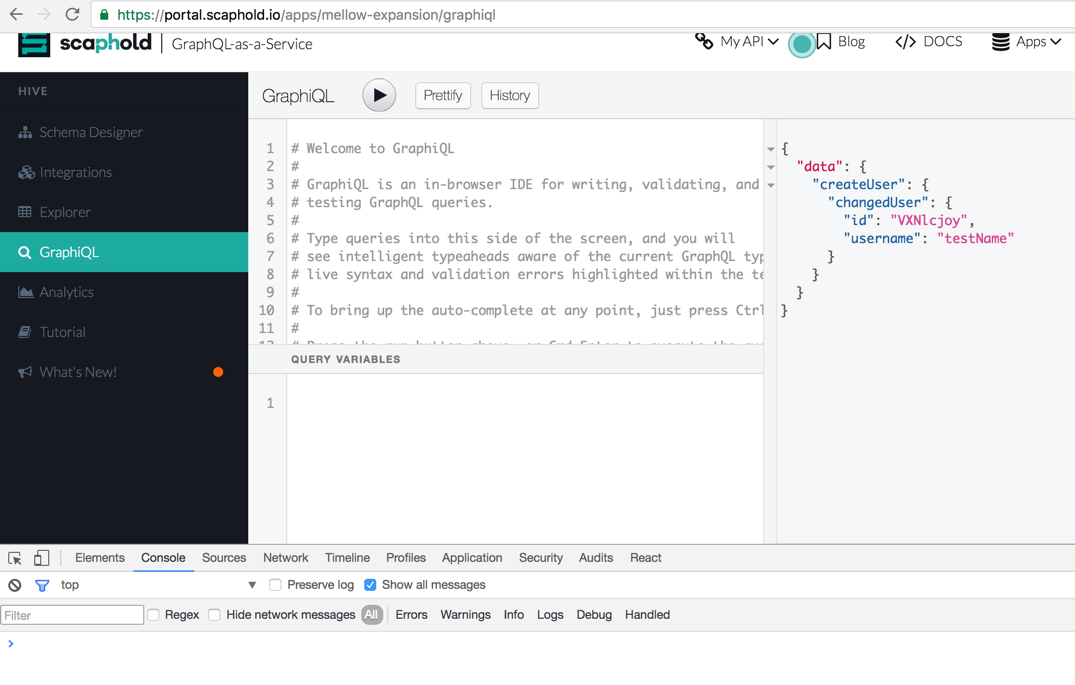
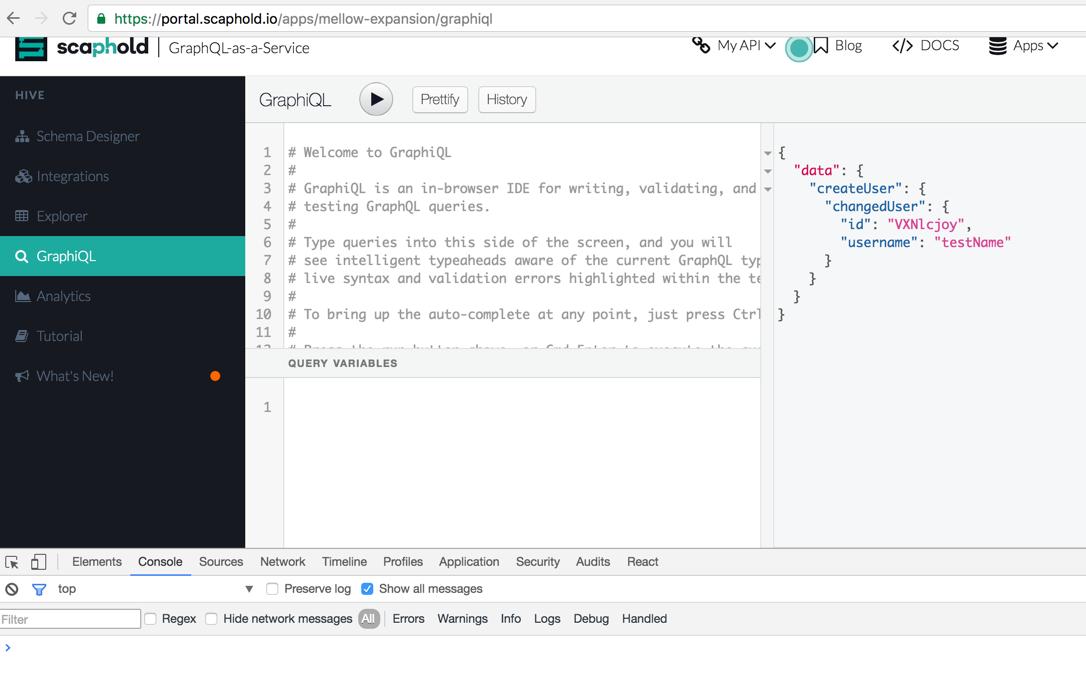
add query reset issue

diff --git a/README.md b/README.md
@@ -1,0 +1,17 @@
+# Scaphold contribution statics
+
+For personnel use, this repo is a storage of static file dedicated to Scaphold web application.
+
+
+*issues #1: submitting request in graphiql resets query and variable when result displays*
+
+- ![sample request before submitting](https://raw.githubusercontent.com/MacKentoch/scaphold-contrib-statics/master/print_screens/V2/before-request-submit.png)
+
+ - any query or mutation (with or without variables)
+
+
+
+- ![sample request after submitting](https://raw.githubusercontent.com/MacKentoch/scaphold-contrib-statics/master/print_screens/V2/after-request-submit.png)
+
+ - result displays as intended but it resets query
+ - history did not register the query (empty history)
